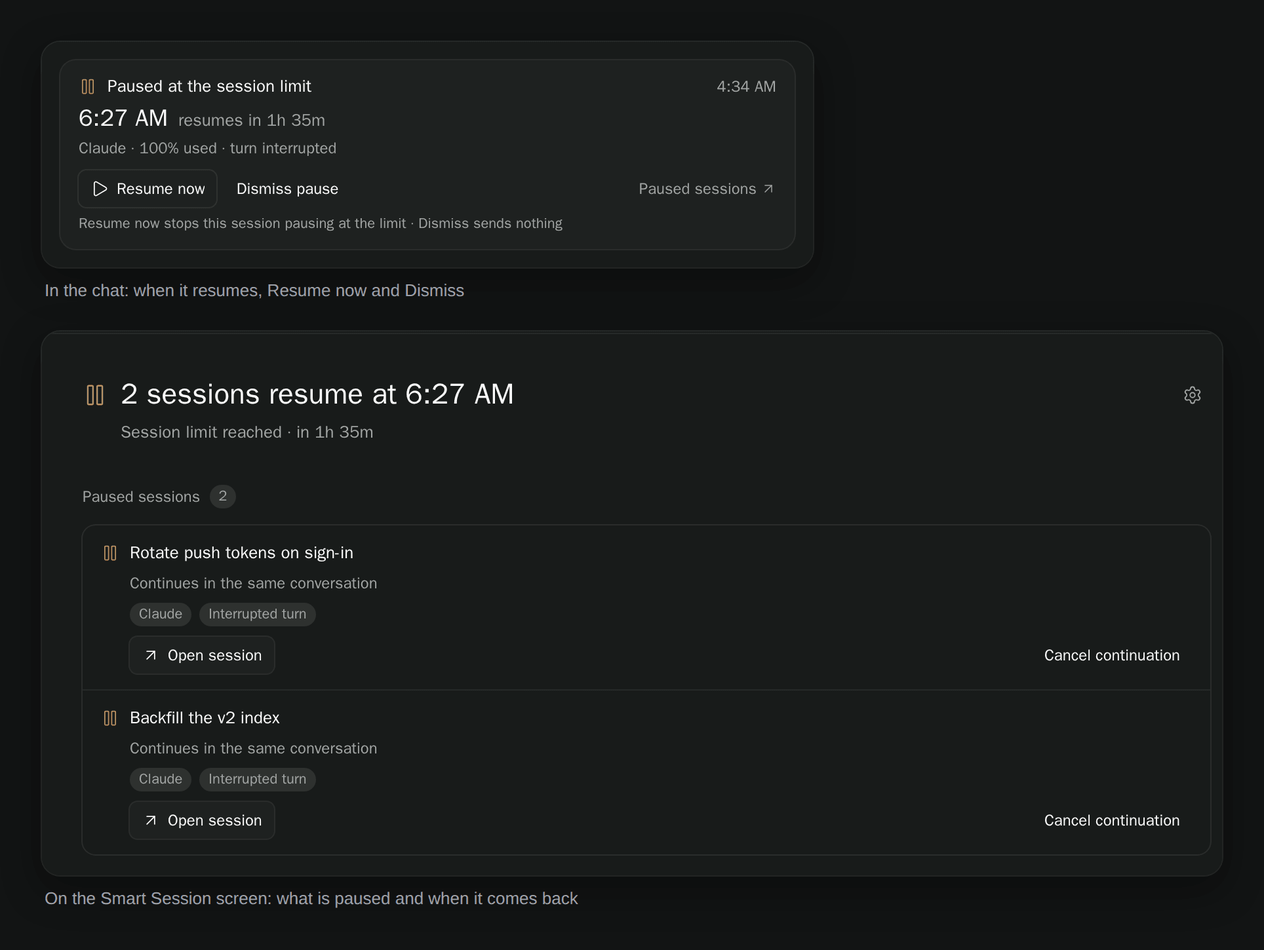
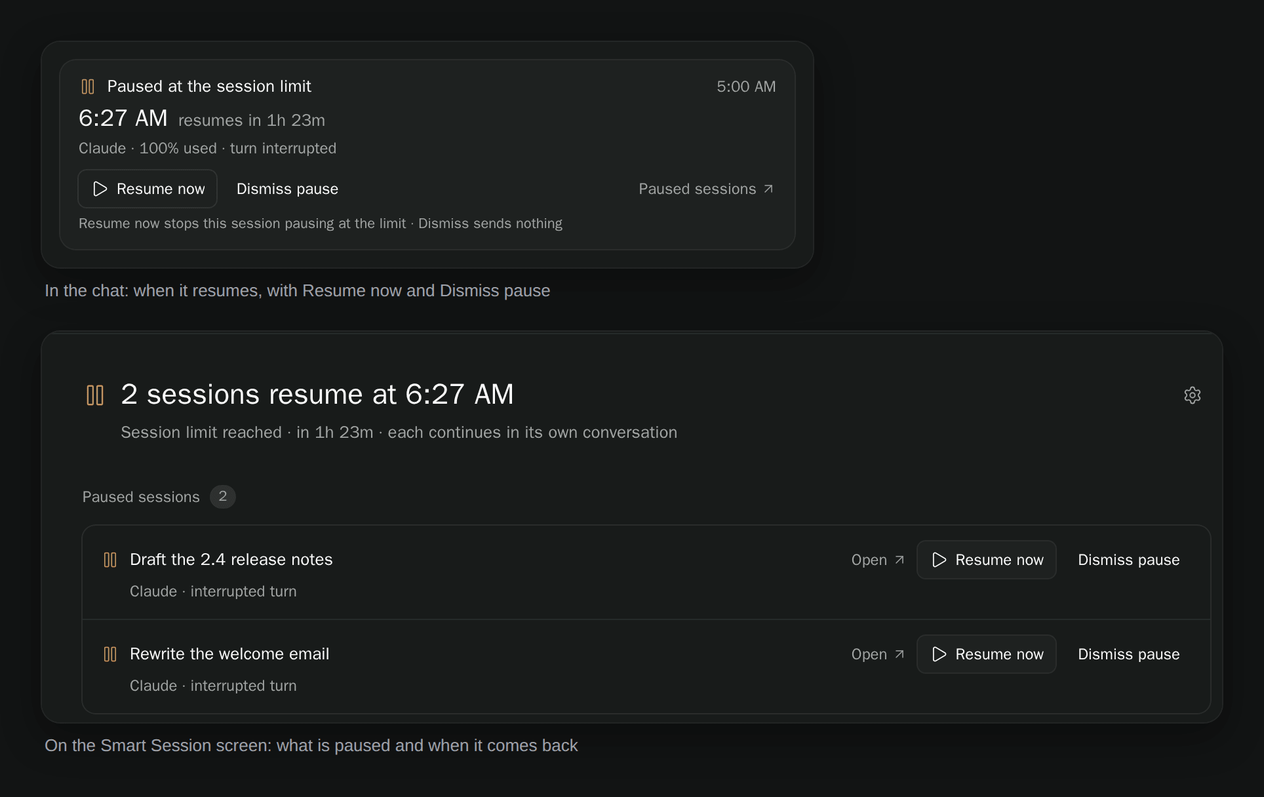
One action set per pause, tighter rows, a quieter hand-off
From the finish review: a waiting pause offers Resume now and Dismiss pause
in the chat, the pill's popover and the overview alike (one definition in
shared/guard/presentation.ts); the popover leads with the moment, not a
label; paused rows are two lines with their actions trailing; the
standalone plugin is one muted line inside the list; the Limit timing
editor gets a full-width message field and one Discard/Save row; the
feature uses one icon. Media regenerated.

diff --git a/client/guard/paused.tsx b/client/guard/paused.tsx
@@ -2,12 +2,12 @@ import { useState } from "react";
 import { Text, TextInput, View } from "react-native";
 import { type PluginScreenProps, useRpc } from "@getpaseo/plugin/client";
 import { Icon, useToast } from "@getpaseo/plugin/client/ui";
-import { cancelResumeRpc, setProtectionRpc, statusRpc } from "../../shared/guard/contracts.ts";
-import { governorNotice, pauseOwnerNote, pausedLead, pausedSessions, pausePresentation } from "../../shared/guard/presentation.ts";
+import { cancelResumeRpc, dismissPauseRpc, resumeNowRpc, setProtectionRpc, statusRpc } from "../../shared/guard/contracts.ts";
+import { PAUSE_ACTIONS, governorNotice, pauseOwnerNote, pausedLead, pausedSessions, pausePresentation } from "../../shared/guard/presentation.ts";
 import { timestamp, type Pause } from "../../shared/guard/policy.ts";
 import { formatDuration } from "../../shared/format.ts";
 import { formatMoment } from "../../shared/forecast.ts";
-import { Button, Card, CardRow, Chip, SectionHead, TextLink, text } from "../kit.tsx";
+import { Button, Card, CardRow, SectionHead, TextLink, text } from "../kit.tsx";
 import { tabular, type Theme } from "../theme.ts";
 import { publishGuard, type GuardStatus } from "./status.ts";
 
@@ -27,13 +27,20 @@ export function PausedSection({ theme, layout, host, navigation, status, shared:
   const toast = useToast();
   const read = useRpc(statusRpc);
   const cancel = useRpc(cancelResumeRpc);
+  const resumeNow = useRpc(resumeNowRpc);
+  const dismiss = useRpc(dismissPauseRpc);
   const [busy, setBusy] = useState<string | null>(null);
   const [query, setQuery] = useState("");
-  const release = async (pause: Pause) => {
+  // A waiting pause gets the same two actions as its chat card; only a stuck one is released.
+  const act = async (pause: Pause, kind: "resume" | "dismiss" | "release") => {
     if (busy) return;
-    setBusy(pause.agentId);
-    try { await cancel({ agentId: pause.agentId }); publishGuard(await read({})); toast.show(pause.suspension ? "Released · that session no longer pauses at the limit" : "Continuation cancelled"); }
-    catch { toast.error("Couldn't change this pause. Refresh and try again."); }
+    setBusy(`${pause.agentId}:${kind}`);
+    try {
+      if (kind === "release") await cancel({ agentId: pause.agentId });
+      else await (kind === "resume" ? resumeNow : dismiss)({ agentId: pause.agentId, pauseId: pause.id });
+      publishGuard(await read({}));
+      toast.show(kind === "resume" ? "Resumed · it no longer pauses at the limit" : kind === "dismiss" ? "Pause dismissed · nothing was sent" : "Released");
+    } catch { toast.error("Couldn't change this pause. Check the session and try again."); }
     finally { setBusy(null); }
   };
 
@@ -55,28 +62,30 @@ export function PausedSection({ theme, layout, host, navigation, status, shared:
     // A row leads with what differs between rows, the session; its time only when it differs from the lead's.
     const ownTime = !stuck && !pause.demo && reset !== null && reset > now && (shared === null || Math.abs(reset - shared) >= 60_000) ? formatMoment(pause.anchorResetsAt!, now) : null;
     const after = stuck ? (pause.note ?? "It stopped before the pause was confirmed. Check it before continuing by hand.")
-      : pause.demo ? "Test pause · waits for you"
+      : pause.demo ? "Test pause, waits for you"
         : reset === null ? "Waiting for the provider to report the reset"
-          // The lead already says when a shared reset lands; the row says what happens then.
-          : reset > now ? (ownTime === null && shared !== null ? (autoResume ? "Continues in the same conversation" : "Continue it by hand after the reset") : `${autoResume ? "Resumes" : "Resets"} in ${formatDuration(reset - now)}`)
+          : reset > now ? (ownTime === null && shared !== null ? null : `${autoResume ? "Resumes" : "Resets"} in ${formatDuration(reset - now)}`)
             : `Reset was ${formatMoment(pause.anchorResetsAt!, now)} · waiting for a fresh reading`;
-    return <CardRow key={pause.id} theme={theme} first={i === 0} style={{ gap: 6 }}>
+    // The lead says when a shared reset lands and what happens then; a row adds only what differs.
+    const facts = [after, providerName(pause.provider), presentation.coverage.toLowerCase()].filter(Boolean).join(" · ");
+    const actions = owner !== null ? null : pause.phase === "waiting" ? <>
+      <Button theme={theme} small compact={compact} icon={compact ? undefined : PAUSE_ACTIONS.resume.icon} title={busy === `${pause.agentId}:resume` ? PAUSE_ACTIONS.resume.busy : PAUSE_ACTIONS.resume.label} disabled={busy !== null}
+        accessibilityHint={PAUSE_ACTIONS.resume.hint} onPress={() => void act(pause, "resume")} />
+      <Button theme={theme} small compact={compact} kind="ghost" title={busy === `${pause.agentId}:dismiss` ? PAUSE_ACTIONS.dismiss.busy : PAUSE_ACTIONS.dismiss.label} disabled={busy !== null}
+        accessibilityHint={PAUSE_ACTIONS.dismiss.hint} onPress={() => void act(pause, "dismiss")} />
+    </> : stuck ? <Button theme={theme} small compact={compact} kind="ghost" title={busy === `${pause.agentId}:release` ? "Updating…" : presentation.actionLabel} disabled={busy !== null}
+      accessibilityHint={presentation.actionHint} onPress={() => void act(pause, "release")} /> : null;
+    const open = navigation ? <TextLink theme={theme} compact={compact} label="Open" onPress={() => navigation.openAgent({ agentId: pause.agentId, serverId: host.id })} /> : null;
+    return <CardRow key={pause.id} theme={theme} first={i === 0 && !(notice && all.length > 0)} style={{ gap: compact ? 6 : 2 }}>
       <View style={{ flexDirection: "row", alignItems: "center", gap: 8 }}>
         <Icon name={stuck ? "TriangleAlert" : "Pause"} size={14} color={stuck ? c.statusDanger : c.statusWarning} />
-        <Text numberOfLines={2} style={{ ...t.label, flex: 1 }}>{presentation.title}</Text>
-        {ownTime ? <Text style={{ color: c.foreground, fontSize: 15, lineHeight: 21, fontWeight: "600", ...tabular }}>{ownTime}</Text> : null}
-      </View>
-      <Text style={{ ...t.meta, color: stuck ? c.statusDanger : c.foregroundMuted, paddingLeft: 22 }}>{after}</Text>
-      <View style={{ flexDirection: "row", flexWrap: "wrap", gap: 6, paddingLeft: 22 }}>
-        {[providerName(pause.provider), presentation.coverage].map((chip) => <Chip key={chip} theme={theme} label={chip} />)}
-        {owner ? <Chip theme={theme} label="Read-only here" /> : null}
-      </View>
-      <View style={{ flexDirection: "row", alignItems: "center", flexWrap: "wrap", gap: 6, marginTop: 2, paddingLeft: 22 }}>
-        {navigation ? <Button theme={theme} small compact={compact} icon={compact ? undefined : "ArrowUpRight"} title="Open session" onPress={() => navigation.openAgent({ agentId: pause.agentId, serverId: host.id })} /> : null}
+        <Text numberOfLines={1} style={{ ...t.label, flexShrink: 1 }}>{presentation.title}</Text>
+        {ownTime ? <Text style={{ ...t.label, ...tabular }}>{ownTime}</Text> : null}
         <View style={{ flex: 1, minWidth: 8 }} />
-        {owner === null ? <Button theme={theme} small compact={compact} kind="ghost" title={busy === pause.agentId ? "Updating…" : presentation.actionLabel} disabled={busy !== null}
-          accessibilityHint={presentation.actionHint} onPress={() => void release(pause)} /> : null}
+        {compact ? open : <>{open}{actions}</>}
       </View>
+      <Text style={{ ...t.meta, color: stuck ? c.statusDanger : c.foregroundMuted, paddingLeft: 22 }}>{facts}</Text>
+      {compact && actions ? <View style={{ flexDirection: "row", gap: 6, paddingLeft: 22 }}>{actions}</View> : null}
     </CardRow>;
   };
 
@@ -84,15 +93,6 @@ export function PausedSection({ theme, layout, host, navigation, status, shared:
   const waiting = visible.filter((p) => p.phase !== "attention");
   return <View style={{ gap: 8 }}>
     <SectionHead theme={theme} title="Paused sessions" count={all.length || undefined} />
-    {notice && all.length > 0 ? <Card theme={theme}><CardRow theme={theme} first style={{ flexDirection: "row", gap: 10, alignItems: "flex-start" }}>
-      <Icon name="ShieldOff" size={15} color={c.foregroundMuted} />
-      <View style={{ flex: 1, gap: 3 }}>
-        <Text style={t.label}>{notice.title}</Text>
-        <Text style={t.meta}>{notice.hint}</Text>
-        {owner && status?.governor === "off" ? <Text style={t.meta}>{owner}</Text> : null}
-      </View>
-      <TextLink theme={theme} compact={compact} icon="Settings" label="Settings" onPress={openSettings} />
-    </CardRow></Card> : null}
     {all.length > 5 || query !== "" ? <TextInput value={query} onChangeText={setQuery} placeholder="Find a paused session by title or provider" placeholderTextColor={c.foregroundMuted} accessibilityLabel="Find a paused session"
       style={{ minHeight: compact ? 44 : 34, paddingHorizontal: 12, borderRadius: 8, borderWidth: 1, borderColor: c.border, backgroundColor: c.surface1, color: c.foreground, fontSize: 13 }} /> : null}
     {status && all.length === 0 ? <Card theme={theme}><CardRow theme={theme} first style={{ gap: 4, paddingVertical: 16 }}>
@@ -100,7 +100,13 @@ export function PausedSection({ theme, layout, host, navigation, status, shared:
       <Text style={t.meta}>{notice ? notice.title + "." : `When a session reaches ${status.policy.thresholdPct}% of its session window, it pauses here and ${status.policy.autoResume ? "continues in the same conversation after the reset" : "waits for you after the reset"}.`}</Text>
     </CardRow></Card> : null}
     {status && all.length > 0 && visible.length === 0 ? <Text style={t.meta}>No paused session matches that.</Text> : null}
-    {visible.length > 0 ? <Card theme={theme}>{[...attention, ...waiting].map(row)}</Card> : null}
+    {visible.length > 0 ? <Card theme={theme}>
+      {notice ? <CardRow theme={theme} first style={{ flexDirection: "row", alignItems: "center", gap: 8 }}>
+        <Icon name="CirclePause" size={14} color={c.foregroundMuted} />
+        <Text style={{ ...t.meta, flex: 1 }}>{`${notice.title}. ${status?.governor === "off" && owner ? owner : notice.hint}`}</Text>
+      </CardRow> : null}
+      {[...attention, ...waiting].map(row)}
+    </Card> : null}
   </View>;
 }
 

diff --git a/client/popover.tsx b/client/popover.tsx
@@ -7,8 +7,8 @@ import { useQuery } from "@tanstack/react-query";
 import { formatClock, formatCompactTokens, formatDuration, formatRelative } from "../shared/format";
 import { contextOutlook } from "../shared/forecast";
 import { listCompactions, setEnrolment, type CompactionRequest } from "../shared/governor";
-import { cancelResumeRpc, setProtectionRpc, statusRpc } from "../shared/guard/contracts";
-import { governorNotice, pausePresentation } from "../shared/guard/presentation";
+import { cancelResumeRpc, dismissPauseRpc, resumeNowRpc, setProtectionRpc, statusRpc } from "../shared/guard/contracts";
+import { PAUSE_ACTIONS, governorNotice, pausePresentation } from "../shared/guard/presentation";
 import { contextStatus } from "../shared/smart-session";
 import { profileFor } from "../shared/thresholds";
 import type { AgentDirectory } from "./agents";
@@ -45,7 +45,9 @@ export function makeContextPopover(client: PluginClientContext, agents: AgentDir
     const readGuard = useRpc(statusRpc);
     const writeProtection = useRpc(setProtectionRpc);
     const cancelResume = useRpc(cancelResumeRpc);
-    const [saving, setSaving] = useState<"compact" | "protect" | "release" | null>(null);
+    const resumeNow = useRpc(resumeNowRpc);
+    const dismissPause = useRpc(dismissPauseRpc);
+    const [saving, setSaving] = useState<"compact" | "protect" | "release" | "resume" | "dismiss" | null>(null);
     const [problem, setProblem] = useState<string | null>(null);
     const detail = useQuery({ queryKey: ["smart-session", "context", agentId], queryFn: () => readContext({ agentId }), refetchInterval: 30_000 });
     const compactions = useQuery({ queryKey: ["smart-session", "compactions", agentId], queryFn: () => readCompactions({ agentId }), refetchInterval: 30_000 });
@@ -60,7 +62,7 @@ export function makeContextPopover(client: PluginClientContext, agents: AgentDir
     const pause = governedPause(guard, agentId);
     const protection = sessionProtection(guard, agentId);
 
-    async function run(kind: "compact" | "protect" | "release", work: () => Promise<void>) {
+    async function run(kind: "compact" | "protect" | "release" | "resume" | "dismiss", work: () => Promise<void>) {
       setSaving(kind); setProblem(null);
       try {
         await work();
@@ -80,8 +82,13 @@ export function makeContextPopover(client: PluginClientContext, agents: AgentDir
       await writeProtection({ agentId, enabled });
       publishGuard(await readGuard({}));
     });
+    // A stuck pause can only be released; a waiting one gets the same two actions as its chat card.
     const release = () => run("release", async () => {
       await cancelResume({ agentId });
+      publishGuard(await readGuard({}));
+    });
+    const settle = (kind: "resume" | "dismiss", pauseId: string) => run(kind, async () => {
+      await (kind === "resume" ? resumeNow : dismissPause)({ agentId, pauseId });
       publishGuard(await readGuard({}));
     });
     const openOverview = (focus?: string) => { close(); client.openScreen({ screenId: "overview", params: focus ? { focus } : undefined }); };
@@ -117,27 +124,31 @@ export function makeContextPopover(client: PluginClientContext, agents: AgentDir
       const auto = guard.policy.enabled && guard.policy.autoResume;
       const moment = stuck ? "Needs a look" : pause.demo ? "Test pause" : reset === null ? "Reset time unknown" : reset <= now ? "Reset due" : `${auto ? "Resumes" : "Resets"} ${formatClock(pause.anchorResetsAt)}`;
       const after = stuck ? (pause.note ?? "It stopped before the pause was confirmed. Check it before continuing by hand.")
-        : pause.demo ? "Waits for you · resume it from its card in the chat"
+        : pause.demo ? "a test pause that waits for you"
           : reset === null ? "Waiting for the provider to report the reset"
             : reset <= now ? "Waiting for a fresh usage reading"
-              : `in ${formatDuration(reset - now)}${auto ? " · continues in this conversation" : " · continue it by hand"}`;
+              : `in ${formatDuration(reset - now)} · ${auto ? "continues in this conversation" : "continue it by hand"}`;
       const tone = stuck ? c.statusDanger : c.statusWarning;
+      const meta = [stuck ? null : "Paused at the session limit", after, look.coverage.toLowerCase()].filter(Boolean).join(" · ");
+      const waiting = pause.phase === "waiting";
       return <View style={{ gap: 8 }}>
         <View style={{ flexDirection: "row", alignItems: "center", gap: 8 }}>
-          <Icon name={stuck ? "TriangleAlert" : "Pause"} size={15} color={tone} />
-          <Text style={{ ...t.label, flex: 1, color: tone }}>{stuck ? "Paused, then something changed" : "Paused at the session limit"}</Text>
+          <Icon name={stuck ? "TriangleAlert" : "Pause"} size={18} color={tone} />
+          <Text style={{ color: c.foreground, fontSize: 20, lineHeight: 26, fontWeight: "600", flexShrink: 1, ...tabular }}>{moment}</Text>
         </View>
-        <View style={{ gap: 2 }}>
-          <Text style={{ color: c.foreground, fontSize: 20, lineHeight: 26, fontWeight: "600", ...tabular }}>{moment}</Text>
-          <Text style={{ ...t.meta, color: stuck ? c.statusDanger : c.foregroundMuted }}>{after}</Text>
-          <Text style={t.meta}>{look.coverage}</Text>
-        </View>
-        <View style={{ flexDirection: "row", alignItems: "center", flexWrap: "wrap", gap: 8 }}>
-          <Button theme={theme} small compact={compact} icon={pause.suspension ? "Play" : "X"} title={saving === "release" ? "Updating…" : look.actionLabel} disabled={saving !== null}
-            accessibilityHint={look.actionHint} onPress={() => void release()} />
+        <Text style={{ ...t.meta, color: stuck ? c.statusDanger : c.foregroundMuted }}>{meta}</Text>
+        <View style={{ flexDirection: "row", alignItems: "center", flexWrap: "wrap", gap: 6 }}>
+          {waiting ? <>
+            <Button theme={theme} small compact={compact} icon={PAUSE_ACTIONS.resume.icon} title={saving === "resume" ? PAUSE_ACTIONS.resume.busy : PAUSE_ACTIONS.resume.label} disabled={saving !== null}
+              accessibilityHint={PAUSE_ACTIONS.resume.hint} onPress={() => void settle("resume", pause.id)} />
+            <Button theme={theme} small compact={compact} kind="ghost" title={saving === "dismiss" ? PAUSE_ACTIONS.dismiss.busy : PAUSE_ACTIONS.dismiss.label} disabled={saving !== null}
+              accessibilityHint={PAUSE_ACTIONS.dismiss.hint} onPress={() => void settle("dismiss", pause.id)} />
+          </> : stuck ? <Button theme={theme} small compact={compact} title={saving === "release" ? "Updating…" : look.actionLabel} disabled={saving !== null}
+            accessibilityHint={look.actionHint} onPress={() => void release()} /> : null}
           <View style={{ flex: 1 }} />
           <TextLink theme={theme} compact={compact} label="All paused sessions" onPress={() => openOverview("paused")} />
         </View>
+        {waiting ? <Text style={t.small}>{PAUSE_ACTIONS.note}</Text> : null}
       </View>;
     })();
 
@@ -147,7 +158,7 @@ export function makeContextPopover(client: PluginClientContext, agents: AgentDir
       if (protection.kind === "on") {
         const meta = protection.protected
           ? `Pauses at ${protection.thresholdPct}% of the session window, ${protection.autoResume ? "continues after the reset" : "you continue it after the reset"}`
-          : "Not paused for this session; work stops when the provider refuses it";
+          : "Off for this session · at the limit the provider refuses work and nothing continues it";
         const source = protection.override === null ? (protection.byDefault ? "Your default" : "Your default is off") : "Changed for this session";
         return <View style={{ flexDirection: "row", alignItems: "center", gap: 12 }}>
           <View style={{ flex: 1, gap: 2 }}>
@@ -166,8 +177,9 @@ export function makeContextPopover(client: PluginClientContext, agents: AgentDir
         : protection.kind === "elsewhere" ? (protection.standalone ? "The standalone Session Guard plugin handles pausing at the limit here" : "Another process handles pausing at the limit here")
           : (governorNotice(guard!)?.title ?? "Pause at the limit isn't running");
       return <View style={{ flexDirection: "row", alignItems: "center", gap: 8 }}>
-        <Icon name="ShieldOff" size={13} color={c.foregroundMuted} />
+        <Icon name="CirclePause" size={13} color={c.foregroundMuted} />
         <Text style={{ ...t.meta, flex: 1 }}>{line}</Text>
+        {protection.kind === "off" ? <TextLink theme={theme} compact={compact} icon="Settings" label="Turn on" onPress={openSettings} /> : null}
       </View>;
     })();
 

diff --git a/client/settings.tsx b/client/settings.tsx
@@ -2,7 +2,7 @@ import { useRpc, useSettings, type PluginClientContext, type PluginSurfaceProps 
 import { SettingsAction, SettingsCard, SettingsInput, SettingsRow, SettingsSection, SettingsSelect, SettingsSwitch, useToast } from "@getpaseo/plugin/client/ui";
 import { useQuery, useQueryClient } from "@tanstack/react-query";
 import { useEffect, useState, useSyncExternalStore } from "react";
-import { ActivityIndicator, ScrollView, Text, View } from "react-native";
+import { ActivityIndicator, ScrollView, Text, TextInput, View } from "react-native";
 
 import { displayPreferences } from "../shared/display";
 import { formatCompactTokens } from "../shared/format";
@@ -15,7 +15,7 @@ import { getSettings, installStatus, setSettings } from "../shared/smart-session
 import { withCompactThreshold } from "../shared/thresholds";
 import { broadcastDisplay } from "./display";
 import { guardSnapshot, refreshGuard, subscribeGuard } from "./guard/status";
-import { errorText } from "./kit";
+import { Button, errorText } from "./kit";
 import { refreshPills } from "./pill-store";
 
 /** A whole number from 1 to 99, or null. */
@@ -217,14 +217,25 @@ export function makeSettings(client: PluginClientContext) {
               onChangeText={(value) => setTiming((t) => t && { ...t, draft: { ...t.draft, resetGraceSeconds: value } })} />
             <SettingsInput label="Between continuations (seconds)" hint="0–300, default 5, so paused sessions don't all start at once." initialValue={timing.draft.resumeSpacingSeconds} error={fieldError("resumeSpacingSeconds")} disabled={guard.saving}
               onChangeText={(value) => setTiming((t) => t && { ...t, draft: { ...t.draft, resumeSpacingSeconds: value } })} />
-            <SettingsInput label="Continuation message" hint="Sent once into the same conversation after the reset is confirmed." initialValue={timing.draft.continuation} error={fieldError("continuation")} disabled={guard.saving}
-              onChangeText={(value) => setTiming((t) => t && { ...t, draft: { ...t.draft, continuation: value } })} />
-            <SettingsInput label="Providers" hint="Comma separated. Empty means every provider that reports session usage." initialValue={timing.draft.providerIds} error={fieldError("providerIds")} disabled={guard.saving}
+            {/* A message is prose: it gets the full width and several lines, not a one-line field. */}
+            <View style={{ paddingHorizontal: 16, paddingVertical: 12, gap: 6 }}>
+              <Text style={{ color: c.foreground, fontSize: 14, lineHeight: 20 }}>Continuation message</Text>
+              <Text style={{ color: c.foregroundMuted, fontSize: 12, lineHeight: 17 }}>Sent once into the same conversation after the reset is confirmed.</Text>
+              <TextInput multiline accessibilityLabel="Continuation message" defaultValue={timing.draft.continuation} editable={!guard.saving}
+                onChangeText={(value) => setTiming((t) => t && { ...t, draft: { ...t.draft, continuation: value } })}
+                style={{ minHeight: 96, marginTop: 4, padding: 10, borderRadius: 8, borderWidth: 1, borderColor: fieldError("continuation") ? c.statusDanger : c.border, backgroundColor: c.surface2, color: c.foreground, fontSize: 13, lineHeight: 19, textAlignVertical: "top" }} />
+              {fieldError("continuation") ? <Text style={{ color: c.statusDanger, fontSize: 12, lineHeight: 17 }}>{fieldError("continuation")}</Text> : null}
+            </View>
+            <SettingsInput label="Providers" hint="Comma separated, e.g. claude, codex. Empty means every provider that reports session usage." initialValue={timing.draft.providerIds} error={fieldError("providerIds")} disabled={guard.saving}
               onChangeText={(value) => setTiming((t) => t && { ...t, draft: { ...t.draft, providerIds: value } })} />
-            <SettingsInput label="Session windows" hint="Comma separated, in order of preference. Default: five_hour, session." initialValue={timing.draft.windowIds} error={fieldError("windowIds")} disabled={guard.saving}
+            <SettingsInput label="Session windows" hint="Which usage window counts as the session limit, first match wins: five_hour is Claude's 5-hour window, session is Codex's." initialValue={timing.draft.windowIds} error={fieldError("windowIds")} disabled={guard.saving}
               onChangeText={(value) => setTiming((t) => t && { ...t, draft: { ...t.draft, windowIds: value } })} />
-            <SettingsAction label="Apply the new timing" hint={timingTried && checked && Object.keys(checked.errors).length > 0 ? "Fix the fields above first" : undefined} actionLabel="Save" disabled={guard.saving} onPress={() => void saveTiming()} />
-            <SettingsAction label="Keep the saved timing" actionLabel="Discard" disabled={guard.saving} onPress={() => { setTiming(null); setTimingTried(false); }} />
+            <SettingsRow label={timingTried && checked && Object.keys(checked.errors).length > 0 ? "Fix the marked fields to save" : "Save the new timing?"}>
+              <View style={{ flexDirection: "row", gap: 6 }}>
+                <Button theme={theme} small kind="ghost" title="Discard" disabled={guard.saving} onPress={() => { setTiming(null); setTimingTried(false); }} />
+                <Button theme={theme} small title={guard.saving ? "Saving…" : "Save"} disabled={guard.saving} onPress={() => void saveTiming()} />
+              </View>
+            </SettingsRow>
           </>}
         </SettingsCard>
         {guard.status === "ready" && guard.saveError ? <Text accessibilityRole="alert" style={{ color: c.statusDanger }}>{guard.saveError}</Text> : null}

diff --git a/client/guard/timeline.tsx b/client/guard/timeline.tsx
@@ -4,6 +4,7 @@ import { useRpc, type PluginTimelineItemProps } from "@getpaseo/plugin/client";
 import { Icon } from "@getpaseo/plugin/client/ui";
 import { timelinePresentation, type TimelineData } from "../../shared/guard/timeline.ts";
 import { dismissPauseRpc, resumeNowRpc, statusRpc } from "../../shared/guard/contracts.ts";
+import { PAUSE_ACTIONS } from "../../shared/guard/presentation.ts";
 import { timestamp, type Pause } from "../../shared/guard/policy.ts";
 import { formatClock, formatDuration } from "../../shared/format.ts";
 import { formatMoment } from "../../shared/forecast.ts";
@@ -90,7 +91,7 @@ export function GuardTimelineItem({ theme, agentId, item, layout, openOverview }
 
   if (!live) {
     if (item.data.event === "resumed") return line("Play", c.foregroundMuted, presentation.title, item.data.manualResume ? `${at} · by you · no longer pauses at the limit` : `${at} · ${item.data.native ? "workers continued in place" : "continuation sent"}`);
-    if (item.data.event === "released") return line("ShieldOff", c.foregroundMuted, presentation.title, item.data.dismissed ? `${at} · no message sent · no longer pauses at the limit` : at);
+    if (item.data.event === "released") return line("Pause", c.foregroundMuted, presentation.title, item.data.dismissed ? `${at} · no message sent · no longer pauses at the limit` : at);
     // attention
     return shell(true, <>
       {titleRow("TriangleAlert", c.statusDanger, presentation.title, c.statusDanger)}
@@ -100,7 +101,7 @@ export function GuardTimelineItem({ theme, agentId, item, layout, openOverview }
 
   // A live pause: settled ones fold to a line.
   if (loaded && (pause === null || pause.phase === "cancelled" || pause.phase === "resumed")) {
-    if (pause?.phase === "cancelled" && pause.dismissed) return line("ShieldOff", c.foregroundMuted, "Pause dismissed", "no message sent · no longer pauses at the limit");
+    if (pause?.phase === "cancelled" && pause.dismissed) return line("Pause", c.foregroundMuted, "Pause dismissed", "no message sent · no longer pauses at the limit");
     if (pause?.phase === "resumed") return line("Pause", c.foregroundMuted, `Paused at ${at}`, pause.manualResume ? `resumed by you ${formatClock(pause.settledAt)}` : `resumed ${formatClock(pause.settledAt)}`);
     // The event that ended it has its own line; this one only says when.
     return line("Pause", c.foregroundMuted, `Paused at ${at}`, pause?.settledAt ? `ended ${formatClock(pause.settledAt)}` : "no longer active");
@@ -137,14 +138,14 @@ export function GuardTimelineItem({ theme, agentId, item, layout, openOverview }
       {pause?.phase === "resuming" ? <View style={{ flexDirection: "row", alignItems: "center", gap: 8 }}><Spinner color={c.foregroundMuted} size={11} /><Text style={t.meta}>Resuming…</Text></View> : null}
       {waiting ? <View style={{ gap: 6 }}>
         <View style={{ flexDirection: "row", flexWrap: "wrap", alignItems: "center", gap: 6 }}>
-          <Button theme={theme} small compact={compact} icon="Play" title={action === "resume" ? "Resuming…" : "Resume now"} loading={action === "resume"} disabled={busy}
-            accessibilityHint={item.data.demo ? "Releases this test session and stops it pausing at the limit." : "Continues before the reset and stops this session pausing at the limit. The provider may still refuse work until the reset."} onPress={() => void act("resume")} />
-          <Button theme={theme} small compact={compact} kind="ghost" title={action === "dismiss" ? "Dismissing…" : "Dismiss pause"} disabled={busy}
-            accessibilityLabel="Dismiss pause without sending a message" onPress={() => void act("dismiss")} />
+          <Button theme={theme} small compact={compact} icon={PAUSE_ACTIONS.resume.icon} title={action === "resume" ? PAUSE_ACTIONS.resume.busy : PAUSE_ACTIONS.resume.label} loading={action === "resume"} disabled={busy}
+            accessibilityHint={item.data.demo ? "Releases this test session and stops it pausing at the limit." : PAUSE_ACTIONS.resume.hint} onPress={() => void act("resume")} />
+          <Button theme={theme} small compact={compact} kind="ghost" title={action === "dismiss" ? PAUSE_ACTIONS.dismiss.busy : PAUSE_ACTIONS.dismiss.label} disabled={busy}
+            accessibilityHint={PAUSE_ACTIONS.dismiss.hint} onPress={() => void act("dismiss")} />
           <View style={{ flex: 1, minWidth: 8 }} />
           <TextLink theme={theme} compact={compact} label="Paused sessions" onPress={openOverview} />
         </View>
-        <Text style={t.small}>{item.data.demo ? "Resume now releases this test session." : "Resume now stops this session pausing at the limit · Dismiss sends nothing"}</Text>
+        <Text style={t.small}>{item.data.demo ? "Resume now releases this test session." : PAUSE_ACTIONS.note}</Text>
       </View> : null}
       {stuck && pause?.dismissed ? <View style={{ flexDirection: "row" }}>
         <Button theme={theme} small compact={compact} title={action === "dismiss" ? "Dismissing…" : "Retry dismissal"} disabled={busy}

diff --git a/client/overview.tsx b/client/overview.tsx
@@ -225,7 +225,8 @@ export function makeOverview(client: PluginClientContext, live: Live) {
 
     // While something is paused here, that is the news; the plan forecast moves to the line below.
     const title = pauseLead !== null ? pauseLead.title : head?.title ?? null;
-    const detail = pauseLead !== null ? [head?.title, pauseLead.shared !== null ? `in ${formatDuration(pauseLead.shared - now)}` : null].filter(Boolean).join(" · ") : head?.detail ?? null;
+    const autoResume = guard?.policy.enabled === true && guard.policy.autoResume;
+    const detail = pauseLead !== null ? [head?.title, pauseLead.shared !== null ? `in ${formatDuration(pauseLead.shared - now)}` : null, autoResume ? "each continues in its own conversation" : "continue each by hand"].filter(Boolean).join(" · ") : head?.detail ?? null;
     const glyph = pauseLead !== null ? { icon: pauseLead.tone === "danger" ? "TriangleAlert" : "Pause", color: toneColor(c, pauseLead.tone) }
       : head ? { icon: toneIcon(head.tone, lead?.state ?? null), color: head.tone === "default" ? c.foregroundMuted : toneColor(c, head.tone) } : null;
     const header = <View style={{ flexDirection: "row", alignItems: "flex-start", gap: 10 }}>
@@ -310,7 +311,7 @@ export function makeOverview(client: PluginClientContext, live: Live) {
               <Text style={{ ...t.meta, flex: 1, color: c.statusWarning }}>{hooksProblem}</Text>
             </View> : null}
           </FeatureRow>
-          <FeatureRow theme={theme} first={false} icon={guardOn ? "ShieldCheck" : "ShieldOff"} title="Pause at the limit" line={guardState.line} tone={guardState.tone} on={guardOn} compact={compact} disabled={guardSettings.saving} onToggle={toggleGuard}
+          <FeatureRow theme={theme} first={false} icon="CirclePause" title="Pause at the limit" line={guardState.line} tone={guardState.tone} on={guardOn} compact={compact} disabled={guardSettings.saving} onToggle={toggleGuard}
             links={<TextLink theme={theme} compact={compact} label="Settings" onPress={() => client.openSettings(SMART_COMPACT_SETTINGS)} />}>
             {guard !== undefined && guardOn ? <Exceptions theme={theme} layout={layout} status={guard} titleOf={titleOf} /> : null}
           </FeatureRow>

diff --git a/shared/guard/presentation.ts b/shared/guard/presentation.ts
@@ -133,3 +133,13 @@ export function pausedLead(pending: readonly Pause[], autoResume: boolean, now: 
   if (next !== null) return { title: `${n(waiting.length, "session", "sessions")} paused · next ${autoResume ? "resumes" : "reset"} at ${clock(next)}${look}`, tone, shared, next };
   return { title: `${n(waiting.length, "session waits", "sessions wait")} for a fresh reading${look}`, tone, shared, next };
 }
+
+/**
+ * The one action set for a waiting pause, wherever it shows: the chat card, the
+ * pill's popover and the overview's list. Same words, same order, same hint.
+ */
+export const PAUSE_ACTIONS = {
+  resume: { label: "Resume now", busy: "Resuming…", icon: "Play", hint: "Continues before the reset and stops this session pausing at the limit. The provider may still refuse work until the reset." },
+  dismiss: { label: "Dismiss pause", busy: "Dismissing…", hint: "Lets the session go without sending a message and stops it pausing at the limit." },
+  note: "Resume now stops this session pausing at the limit · Dismiss sends nothing",
+} as const;
